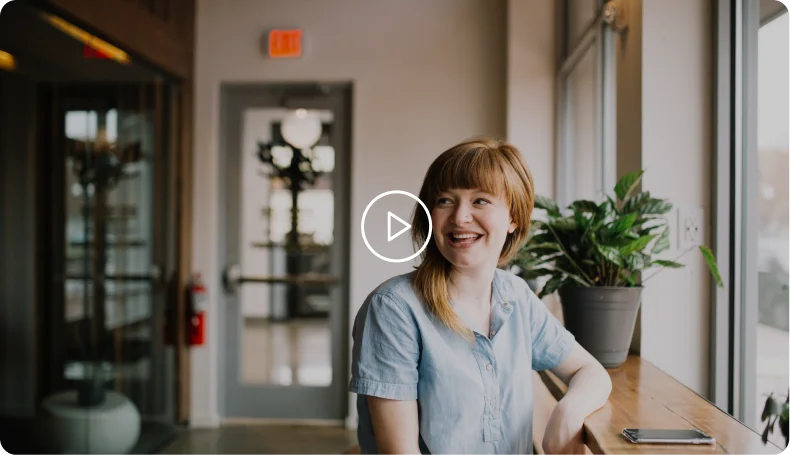
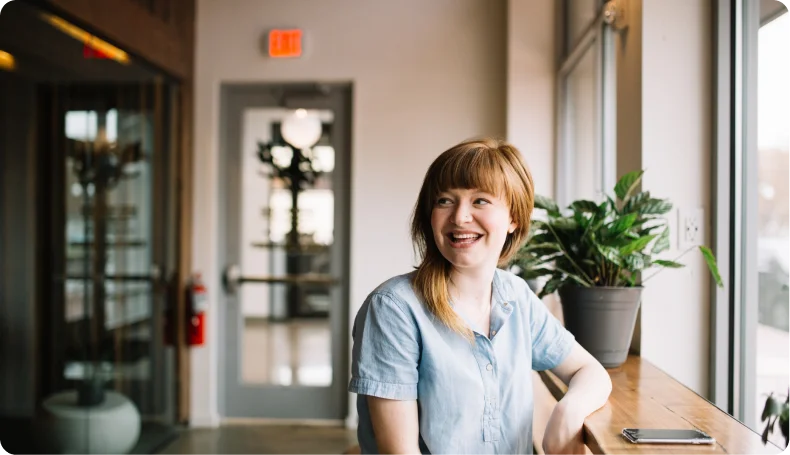
changes a little

diff --git a/index.html b/index.html
@@ -140,14 +140,25 @@
               </p>
               <button class="btn">Let’s get started</button>
             </div>
+            <div class="success__video">
+              <img class="success__img" src="/assets/bg2.webp" alt="video" />
+              <svg
+                class="success__play-icon"
+                viewBox="0 0 72 73"
+                fill="none"
+                xmlns="http://www.w3.org/2000/svg"
+              >
+                <path
+                  d="M35.5913 0.40329C16.0068 0.40329 0.0756836 16.5572 0.0756836 36.4122C0.0756836 56.2672 16.0068 72.4211 35.5913 72.4211C55.1758 72.4211 71.107 56.2672 71.107 36.4122C71.107 16.5572 55.1758 0.40329 35.5913 0.40329ZM35.5913 69.4204C17.6398 69.4204 3.03527 54.613 3.03527 36.4122C3.03527 18.2114 17.6398 3.40399 35.5913 3.40399C53.5428 3.40399 68.1474 18.2114 68.1474 36.4122C68.1474 54.613 53.5428 69.4204 35.5913 69.4204Z"
+                />
+                <path
+                  d="M49.7107 35.1506L28.9933 21.6473C28.5395 21.347 27.9528 21.3308 27.4846 21.5916C27.0076 21.8553 26.7128 22.3595 26.7128 22.9089V49.9156C26.7128 50.465 27.0076 50.9691 27.4846 51.2328C27.7042 51.3545 27.9499 51.416 28.1927 51.416C28.4701 51.416 28.7505 51.3368 28.9933 51.1771L49.7107 37.6738C50.1327 37.3984 50.3899 36.9221 50.3899 36.4122C50.3899 35.9023 50.1327 35.4262 49.7107 35.1506ZM29.6724 47.1668V25.6576L46.173 36.4122L29.6724 47.1668Z"
+                />
+              </svg>
+            </div>
           </div>
         </div>
       </section>
     </main>
   </body>
 </html>
-
-<!-- <svg width="72" height="73" viewBox="0 0 72 73" fill="none" xmlns="http://www.w3.org/2000/svg"></svg>
-  <path d="M35.5913 0.40329C16.0068 0.40329 0.0756836 16.5572 0.0756836 36.4122C0.0756836 56.2672 16.0068 72.4211 35.5913 72.4211C55.1758 72.4211 71.107 56.2672 71.107 36.4122C71.107 16.5572 55.1758 0.40329 35.5913 0.40329ZM35.5913 69.4204C17.6398 69.4204 3.03527 54.613 3.03527 36.4122C3.03527 18.2114 17.6398 3.40399 35.5913 3.40399C53.5428 3.40399 68.1474 18.2114 68.1474 36.4122C68.1474 54.613 53.5428 69.4204 35.5913 69.4204Z" fill="white" />
-  <path d="M49.7107 35.1506L28.9933 21.6473C28.5395 21.347 27.9528 21.3308 27.4846 21.5916C27.0076 21.8553 26.7128 22.3595 26.7128 22.9089V49.9156C26.7128 50.465 27.0076 50.9691 27.4846 51.2328C27.7042 51.3545 27.9499 51.416 28.1927 51.416C28.4701 51.416 28.7505 51.3368 28.9933 51.1771L49.7107 37.6738C50.1327 37.3984 50.3899 36.9221 50.3899 36.4122C50.3899 35.9023 50.1327 35.4262 49.7107 35.1506ZM29.6724 47.1668V25.6576L46.173 36.4122L29.6724 47.1668Z" fill="white" />
-</svg> -->

diff --git a/styles/success.css b/styles/success.css
@@ -1,0 +1,102 @@
+.success {
+  background-color: var(--color-dark-green);
+}
+
+.success__wrapper {
+  padding: 220px 0;
+  display: flex;
+  align-items: start;
+  justify-content: space-between;
+  gap: 40px;
+  flex-wrap: wrap-reverse;
+}
+
+.success__content {
+  margin: 50px 0 0 0;
+  max-width: 550px;
+  display: flex;
+  flex-direction: column;
+  place-items: start;
+  gap: 20px;
+}
+
+.success__video {
+  max-width: 790px;
+  height: 455px;
+  position: relative;
+  border-radius: 16px;
+  overflow: hidden;
+}
+
+.success__content .btn {
+  margin: 50px 0 0 0;
+  width: 240px;
+  height: 65px;
+}
+.success__content .btn:hover {
+  outline: 2px solid var(--color-white);
+}
+
+.success__title {
+  font-weight: 700;
+  font-size: 50px;
+  color: var(--color-white);
+}
+
+.success__desc {
+  font-weight: 600;
+  font-size: 25px;
+  color: var(--color-white);
+}
+
+.success__img {
+  width: 100%;
+  height: 100%;
+  object-fit: cover;
+  aspect-ratio: 158/91;
+  filter: brightness(80%);
+}
+
+.success__play-icon {
+  position: absolute;
+  z-index: 100;
+  width: 72px;
+  height: 73px;
+  top: 40%;
+  left: 45%;
+  fill: var(--color-white);
+}
+
+.success__play-icon:hover {
+  fill: var(--color-green);
+  cursor: pointer;
+}
+
+@media (max-width: 1400px) {
+  .success__wrapper {
+    justify-content: center;
+  }
+  .success__content {
+    text-align: center;
+    place-items: center start;
+  }
+}
+
+@media (max-width: 576px) {
+  .success__wrapper {
+    padding: 150px 0;
+  }
+
+  .success__content {
+    text-align: center;
+    place-items: center start;
+  }
+
+  .success__title {
+    font-size: 32px;
+  }
+
+  .success__desc {
+    font-size: 20px;
+  }
+}

diff --git a/styles/basic.css b/styles/basic.css
@@ -63,7 +63,6 @@ figure {
   border: none;
 
   &:hover {
-    outline: none;
     color: var(--color-green);
   }
 }
